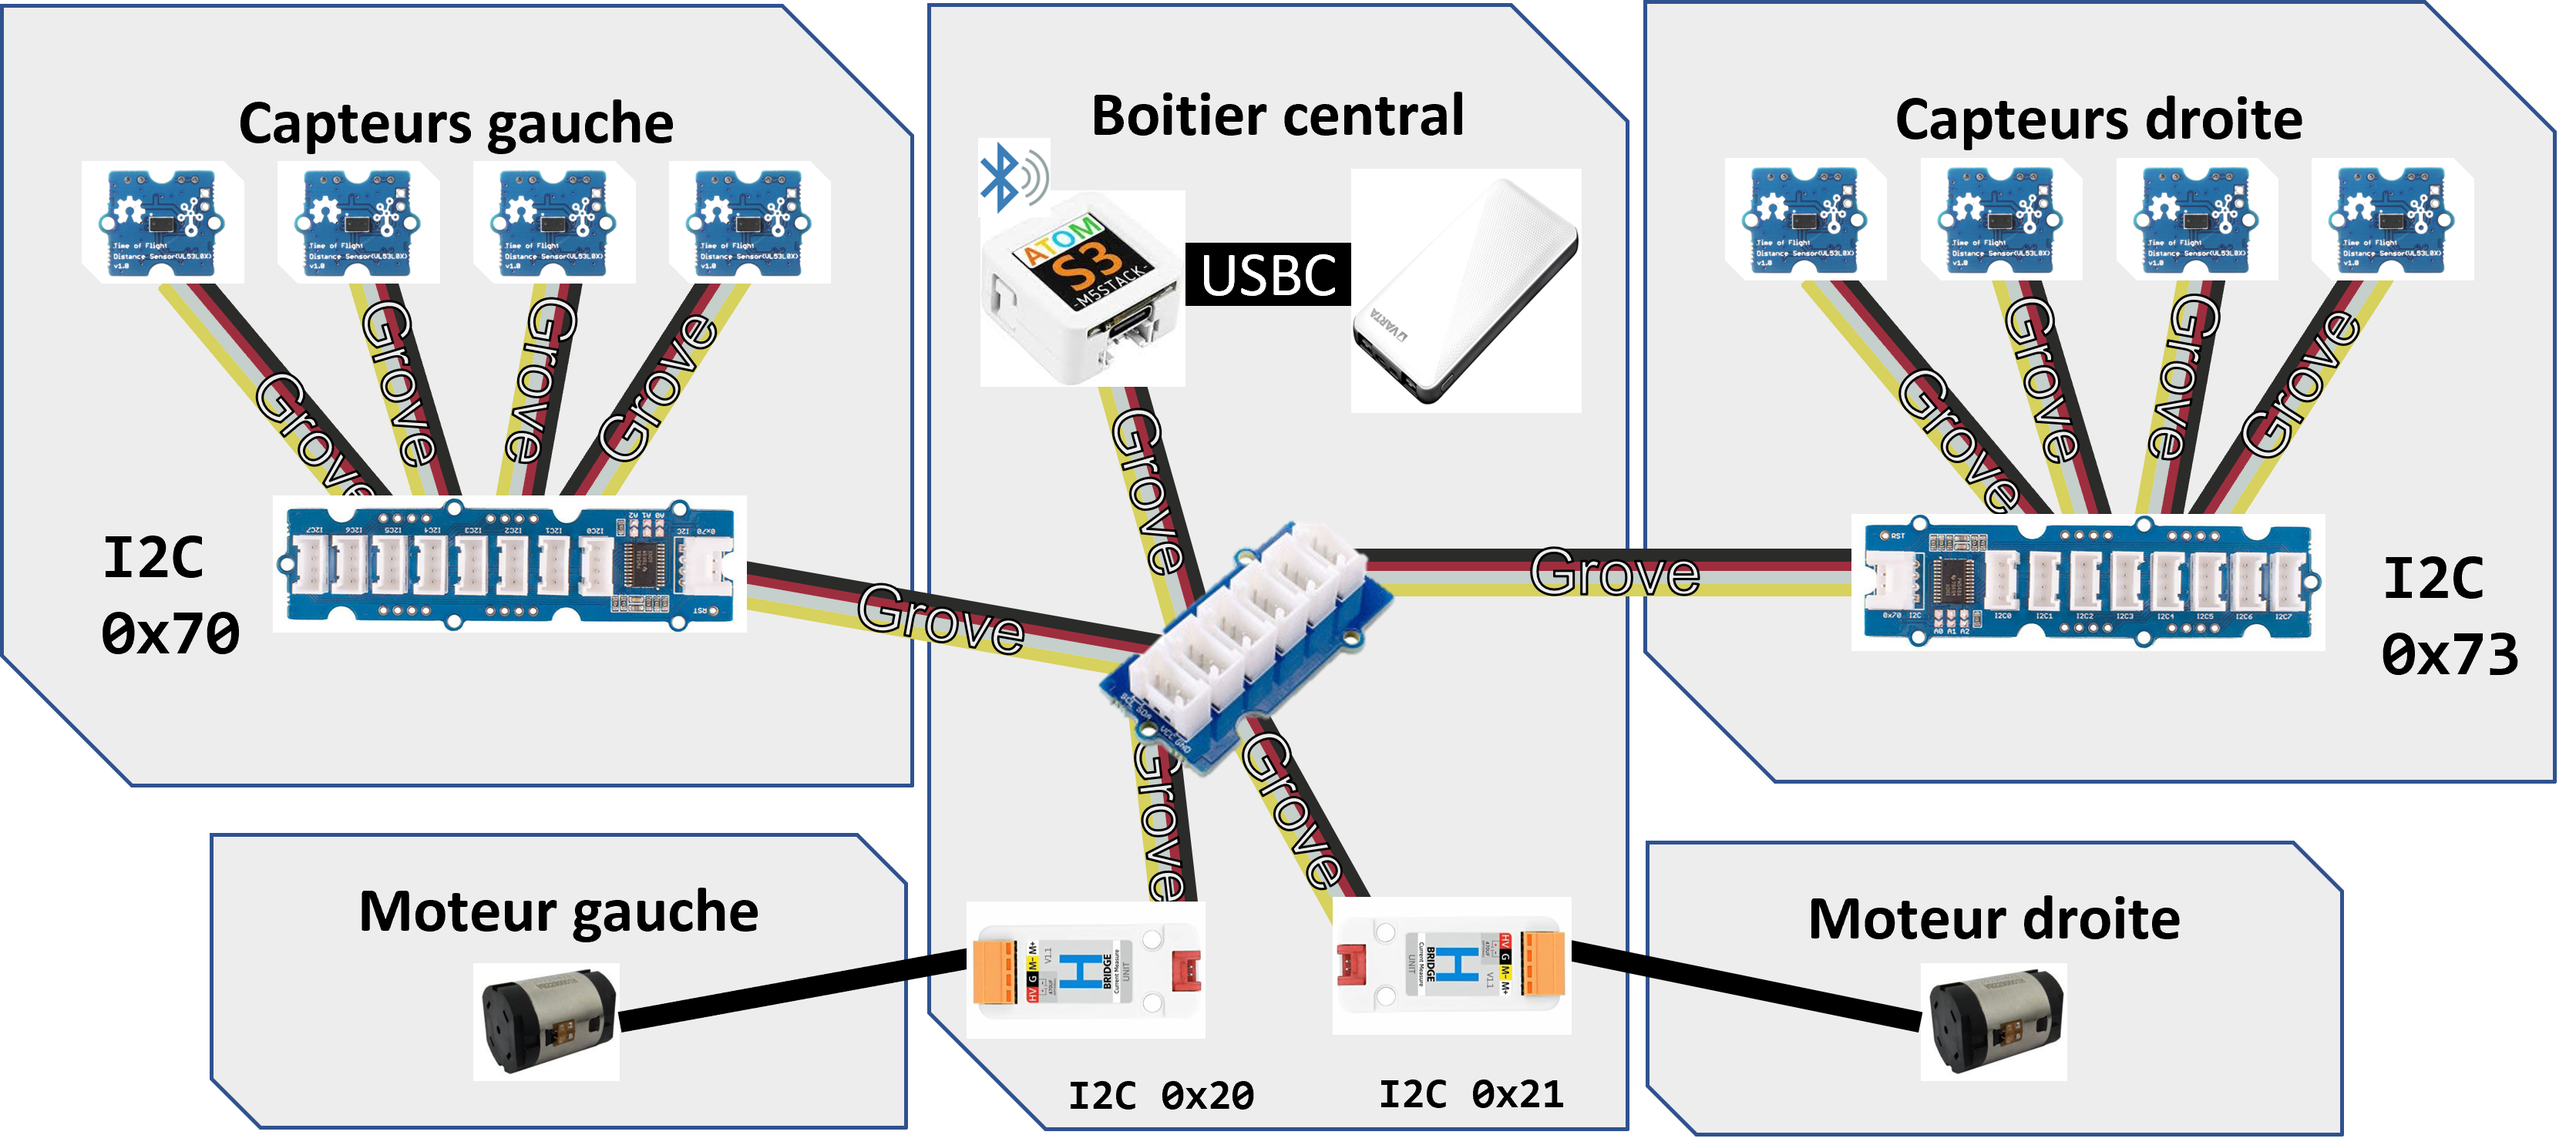
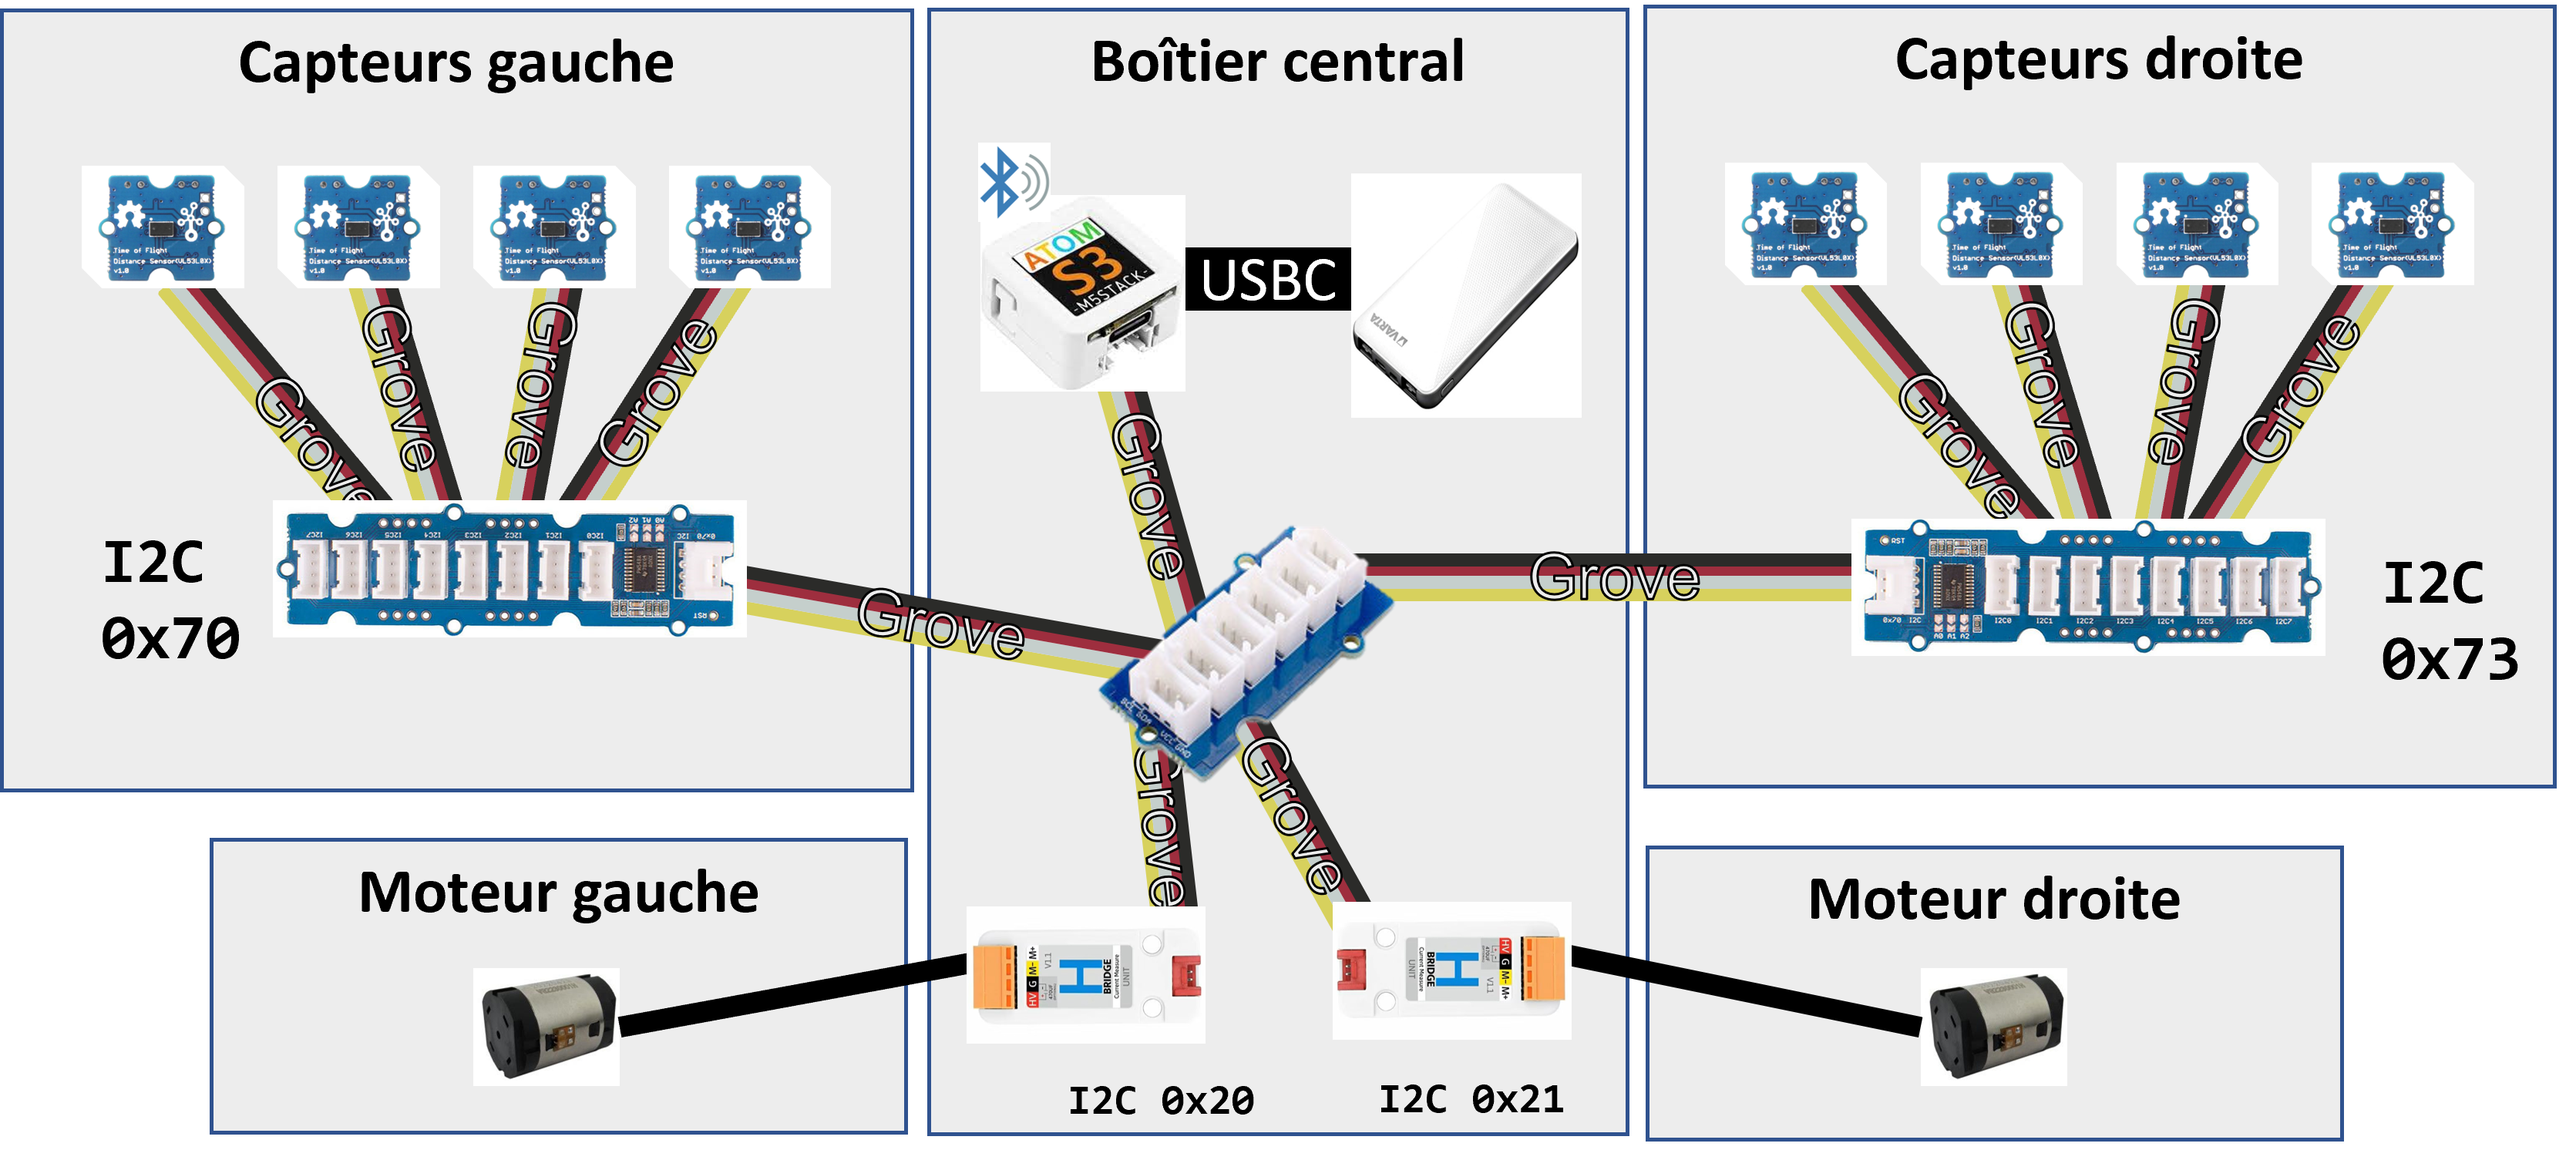
correction de francais

diff --git a/README_old.md b/README_old.md
@@ -9,10 +9,14 @@ https://user-images.githubusercontent.com/100538879/157646195-c86fd216-0dd4-412f
   - [3.2. Le matériel](#32-le-matériel)
   - [3.3. Vue d'ensemble](#33-vue-densemble)
   - [3.4. Notice de montage](#34-notice-de-montage)
+  - [3.5. Câbles et Connections](#35-câbles-et-connections)
+    - [3.5.1. Boîtiers capteurs](#351-boîtiers-capteurs)
+    - [3.5.2. Boîtiers Moteurs](#352-boîtiers-moteurs)
+    - [3.5.3. Boîtier central](#353-boîtier-central)
   - [3.6. Application Android](#36-application-android)
 - [4. FAQ](#4-faq)
 - [5. Publications](#5-publications)
-- [6. Crédits (clic sur image)](#6-crédits-clic-sur-image)
+- [6. Credits (clic sur image)](#6-credits-clic-sur-image)
 
 # 2. Swalkit : "Smart Walker Kit"
 
@@ -90,6 +94,63 @@ La table suivante indique la liste du matériel à commander, necessaire à la f
 
 ## 3.4. Notice de montage
 
+>TODO Thomas instructions de montage (tuto photo?)
+
+## 3.5. Câbles et Connections
+
+### 3.5.1. Boîtiers capteurs
+
+Un boîtier de capteurs se compose de 4 capteurs, chacun relié par un câble au smart Hub I2C du boîtier. Un long câble I2C relie le smart Hub au boîtier central. Ce câble en particulier doit être banché sur le connecteur couché, seul de l'autre côté du composant electronique principal : <img src="ressources/ori-hub-8-ports-I2C-grove-103020293-31770_2.jpg" alt="smarthub" width="100"/>
+
+Les boîtiers capteurs sont symétriques, à un détail près : l'addresse I2C des Smart Hub. En effet, pour les différencier, il faut souder les pad A0 et A1 sur le smart Hub de droite, juste à côté du composant electronique principal de la carte : <img src="ressources/158396947-d8efacd1-f917-4ef9-980c-280def52756b.jpg" alt="smarthub" width="200"/>
+
+<p align="center"><img src="ressources/158400182-8fecf1f1-94f8-4b1c-8215-f870560605ab.jpg" alt="smarthub" width="500" title="boîtiers montés"/>
+
+### 3.5.2. Boîtiers Moteurs
+
+Les moteurs doivent être soudés à un câble 2 voies (par exemple un câble de haut parleur). L'autre côté du câble sera vissé dans un bornier du pont en H.
+
+Le moteur doit être collé au fond de son receptacle et le câble doit être protégé pour éviter l'arrachement (nous utilisons du scotch).
+
+Les boîtiers droite et gauche sont symétriques et les étapes de montage sont identiques.
+
+Voir la section concernant [l'assemblage mécanique](#34-impressions-3d-et-assemblage-mécanique).
+
+
+> TODO Photo moteur monté
+
+### 3.5.3. Boîtier central
+
+Sur le hub I2C simple central, il faut brancher :
+- le m5stack atomS3, avec un câble grove court
+- les deux Smart hub I2C venant des boîtiers capteur
+- les deux ponts en H du boîtier central, avec un câble grove court
+
+Les ponts en H doivent être démontés pour enclencher les switchs. Un premier switch sert à indiquer qu'il faut utiliser le 5V et non pas une alimentation externe.
+Le deuxième sert à mettre une addresse différente de l'addresse par défaut. Sur le pont en H de droite, enclenchez le premier switch d'addresse pour mettre l'addresse à 0x21. Ensuite, branchez le câble moteur sur le bornier correspondant (M+ et M- sans importance).
+
+A ce stade, tout les branchements sont fait. Il faut maintenant téléverser le programme dans le M5stack AtomS3. Pour cela, utilisez l'outil de téléversement et les fichier binaires [disponibles ici sur le dépot](./Installation/M5Stack%20flash/AtomS3%20kit/). Si vous êtes familier avec vscode et l'extension vscode platformio, vous préfèrerez peut être utiliser le projet pio dans le dossier developpement et télécharger votre programme via platformio.
+
+> TODO fabien verifier les fichier binaires et le bon fonctionnement de la procédure d'upload
+
+> TODO fabien enlever les anciennes versions du swalkitdans les dossiers dev et install du dépot
+
+> TODO fabien verifier le lien de telechargement direct
+
+Double-cliquez sur le fichier exécutable pour l'exécuter et installer votre programme sur le M5stack (ou M5atom). Une fenêtre s'ouvre, sélectionnez "ESP32" comme type de puce et "develop" comme mode de travail. 
+
+Modifiez le port COM en fonction de votre appareil. Vous pouvez vérifier votre port COM en débranchant et en rebranchant votre appareil, vous devriez voir le port correspondant disparaître et réapparaître dans la liste des ports COM. 
+
+Sélectionnez le fichier binaire ([disponible ici sur le dépot](./Installation/M5Stack%20flash/AtomS3%20kit/)) en cliquant sur les 3 points de la première ligne. Inscrivez l'adresse 0x0 à droite. Activez le fichier en cliquant sur la case à cocher à gauche. 
+
+> TODO fabien verifier le lien de telechargement direct
+
+
+Cliquez sur "Start" pour télécharger le programme. 
+
+> TODO fabien mettre a jour avec la bonne image
+<p align="center"><img src="ressources/flash.jpg" alt="smarthub" width="500" title="boîtiers montés"/>
+
 > Note de première mise en route : Lorsque le programme est televersé le M5stack démarre. Celui-ci commence à communiquer avec les différents modules. Les pont en H ont besoin d'être mis à jour pour controller correctement les moteurs. En effet, ces mmoteur ont besoin d'une alimentation qui alterne son sens à 70Hz pour fonctionner correctement. Hors, le programme de ces ponts en H alterne le sens du courant à la demande. **Nous mettons à jour ce programme automatiquement via le M5Stack et la communication I2C** pour que l'alternance de sens soit gérée directement dans le pont en H.
 
 ## 3.6. Application Android
@@ -138,7 +199,7 @@ Citer : [GRZESKOWIAK, Fabien, DEVIGNE, Louise, PASTEAU, François, et al. SWALKI
 
 Présentation au congrès [SOFMER 2022.](https://programme.sofmer2022.com/abstract.php?action=planningView&id=93023)
 
-# 6. Crédits (clic sur image)
+# 6. Credits (clic sur image)
 Auteurs principaux : Fabien GRZESKOWIAK et Thomas VOISIN. 
 
 [![](https://ih2a.insa-rennes.fr/fileadmin/_processed_/0/f/csm_schema_chaire_a0628d819e.png)](https://ih2a.insa-rennes.fr/)
